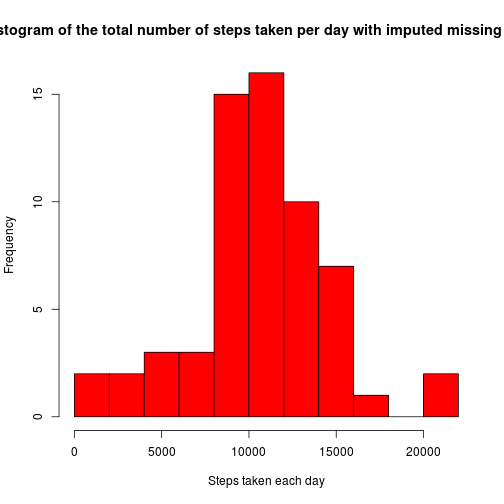
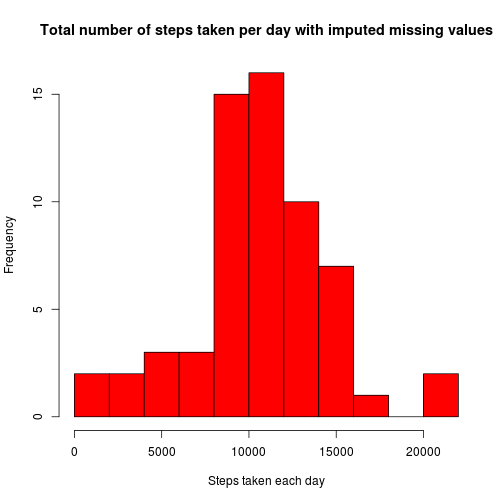
Minor changes

Changed region(s): [[0.0, 0.0298, 1.0, 0.0893]]

diff --git a/PA1_template.html b/PA1_template.html
@@ -227,11 +227,11 @@ if (!file.exists(destFile)) {
 <p>Make a histogram of the total number of steps taken each day:</p>
 
 <pre><code class="r">stepsByDate &lt;- tapply(data$steps, data$date, sum, na.rm = TRUE)
-hist(stepsByDate, breaks = 10, main = &quot;Histogram of the total number of steps taken per day&quot;, 
+hist(stepsByDate, breaks = 10, main = &quot;Total number of steps taken per day&quot;, 
     col = &quot;red&quot;, xlab = &quot;Total steps taken each day&quot;)
 </code></pre>
 
[2 lines of base64/hex data omitted]
 
 <p>Calculate and report the <strong>mean</strong> and <strong>median</strong> total number of steps taken per day:</p>
 
@@ -263,7 +263,7 @@ minutes = maxInterval%%60
 result &lt;- paste(hour, &quot;:&quot;, minutes, sep = &quot;&quot;)
 </code></pre>
 
-<p>The interval, <strong>835</strong>, corresponding to <strong>13:55</strong>, contained <strong>206</strong> corresponds to the maximum number of steps in an interval. </p>
+<p>The interval, <strong>835</strong>, corresponding to <strong>13:55</strong>, contained <strong>206</strong>, the maximum average number of steps in any interval. </p>
 
 <h2>Inputing missing values</h2>
 
@@ -285,7 +285,7 @@ avgSteps &lt;- mean(replace(avgStepsPerDay, is.na(avgStepsPerDay), 0))
 avgStepsPerDay &lt;- replace(avgStepsPerDay, is.na(avgStepsPerDay), avgSteps)
 </code></pre>
 
-<p>Create a new dataset that is equal to the original dataset but with the missing data filled in.:</p>
+<p>Create a new dataset that is equal to the original dataset but with the missing data filled in:</p>
 
 <pre><code class="r">impute &lt;- data
 for (i in 1:nrow(impute)) {
@@ -299,10 +299,10 @@ for (i in 1:nrow(impute)) {
 
 <pre><code class="r">stepsByDateI &lt;- tapply(impute$steps, impute$date, sum, na.rm = TRUE)
 hist(stepsByDateI, breaks = 10, col = &quot;red&quot;, xlab = &quot;Steps taken each day&quot;, 
-    main = &quot;Histogram of the total number of steps taken per day with imputed missing values&quot;)
+    main = &quot;Total number of steps taken per day with imputed missing values&quot;)
 </code></pre>
 
[2 lines of base64/hex data omitted]
 
 <p>As you can see, the histogram is different because before there were several days with frequency 0. They have now been removed. </p>
 

diff --git a/PA1_template.md b/PA1_template.md
@@ -45,7 +45,7 @@ Make a histogram of the total number of steps taken each day:
 
 ```r
 stepsByDate <- tapply(data$steps, data$date, sum, na.rm = TRUE)
-hist(stepsByDate, breaks = 10, main = "Histogram of the total number of steps taken per day", 
+hist(stepsByDate, breaks = 10, main = "Total number of steps taken per day", 
     col = "red", xlab = "Total steps taken each day")
 ```
 
@@ -86,7 +86,7 @@ minutes = maxInterval%%60
 result <- paste(hour, ":", minutes, sep = "")
 ```
 
-The interval, **835**, corresponding to **13:55**, contained **206** corresponds to the maximum number of steps in an interval. 
+The interval, **835**, corresponding to **13:55**, contained **206**, the maximum average number of steps in any interval. 
 
 ## Inputing missing values
 
@@ -111,7 +111,7 @@ avgStepsPerDay <- replace(avgStepsPerDay, is.na(avgStepsPerDay), avgSteps)
 ```
 
 
-Create a new dataset that is equal to the original dataset but with the missing data filled in.:
+Create a new dataset that is equal to the original dataset but with the missing data filled in:
 
 ```r
 impute <- data
@@ -128,7 +128,7 @@ Make a histogram of the total number of steps taken each day:
 ```r
 stepsByDateI <- tapply(impute$steps, impute$date, sum, na.rm = TRUE)
 hist(stepsByDateI, breaks = 10, col = "red", xlab = "Steps taken each day", 
-    main = "Histogram of the total number of steps taken per day with imputed missing values")
+    main = "Total number of steps taken per day with imputed missing values")
 ```
 
 ![plot of chunk unnamed-chunk-11](figure/unnamed-chunk-11.png) 
